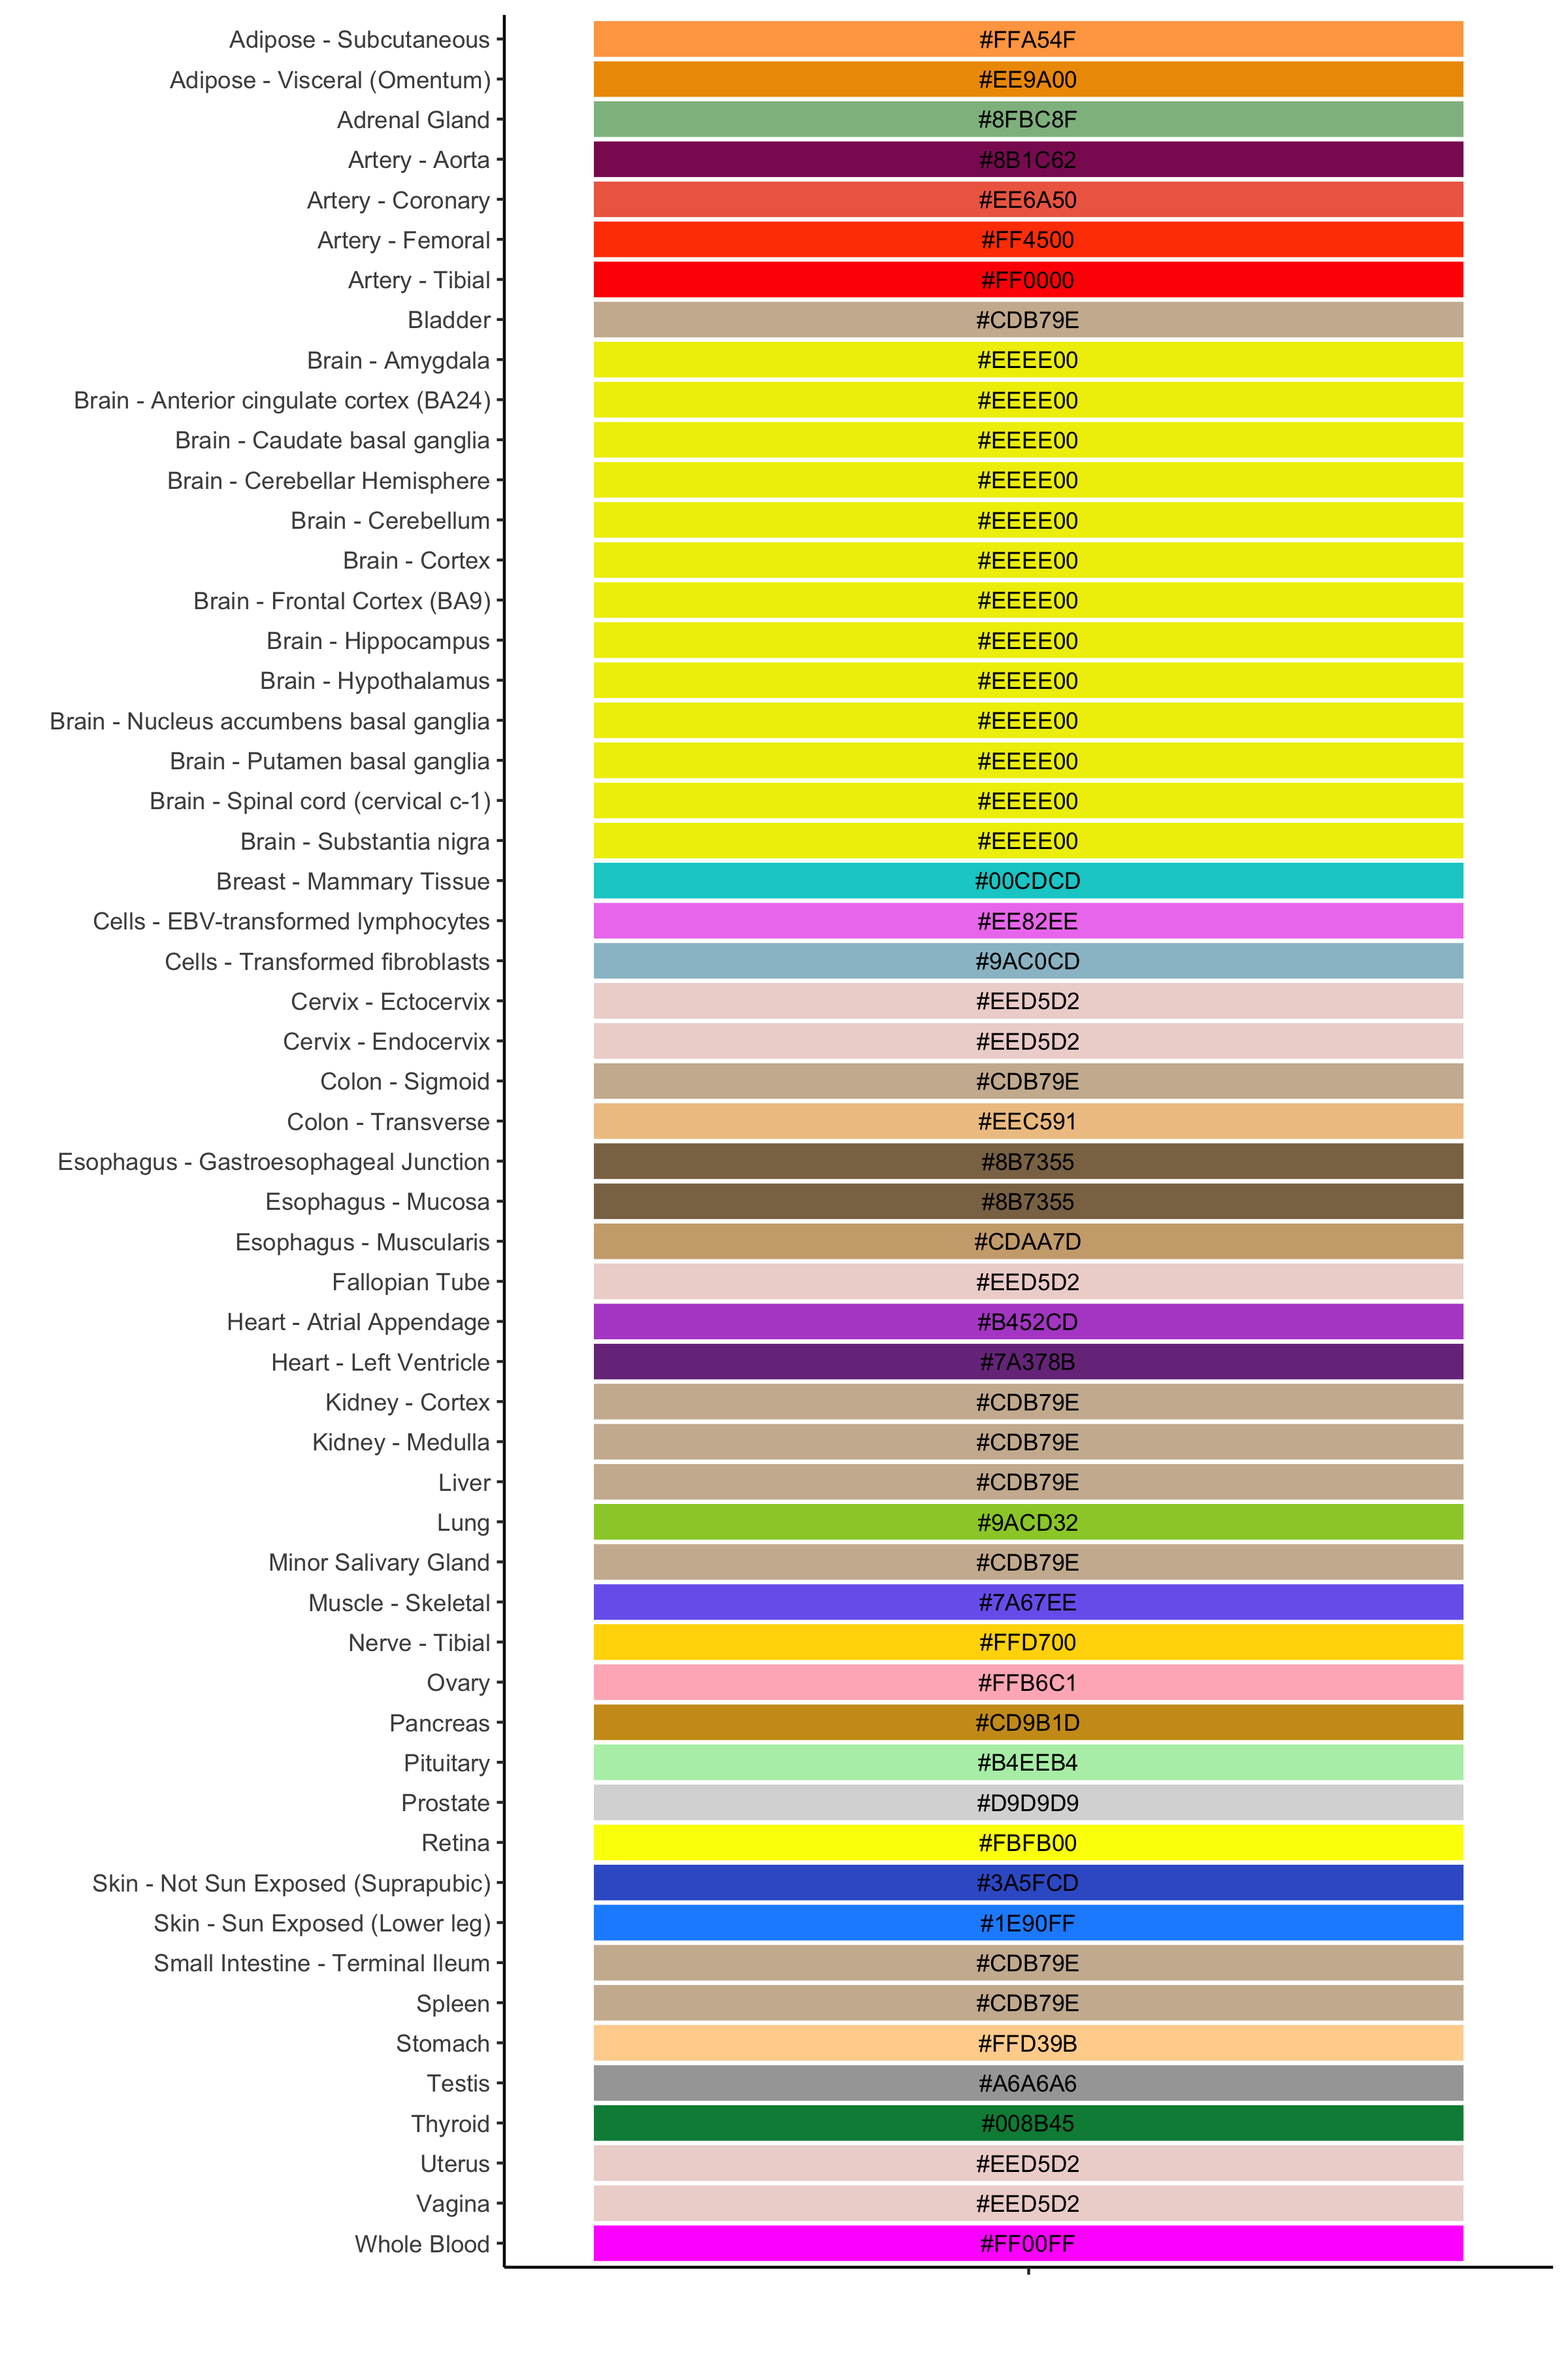
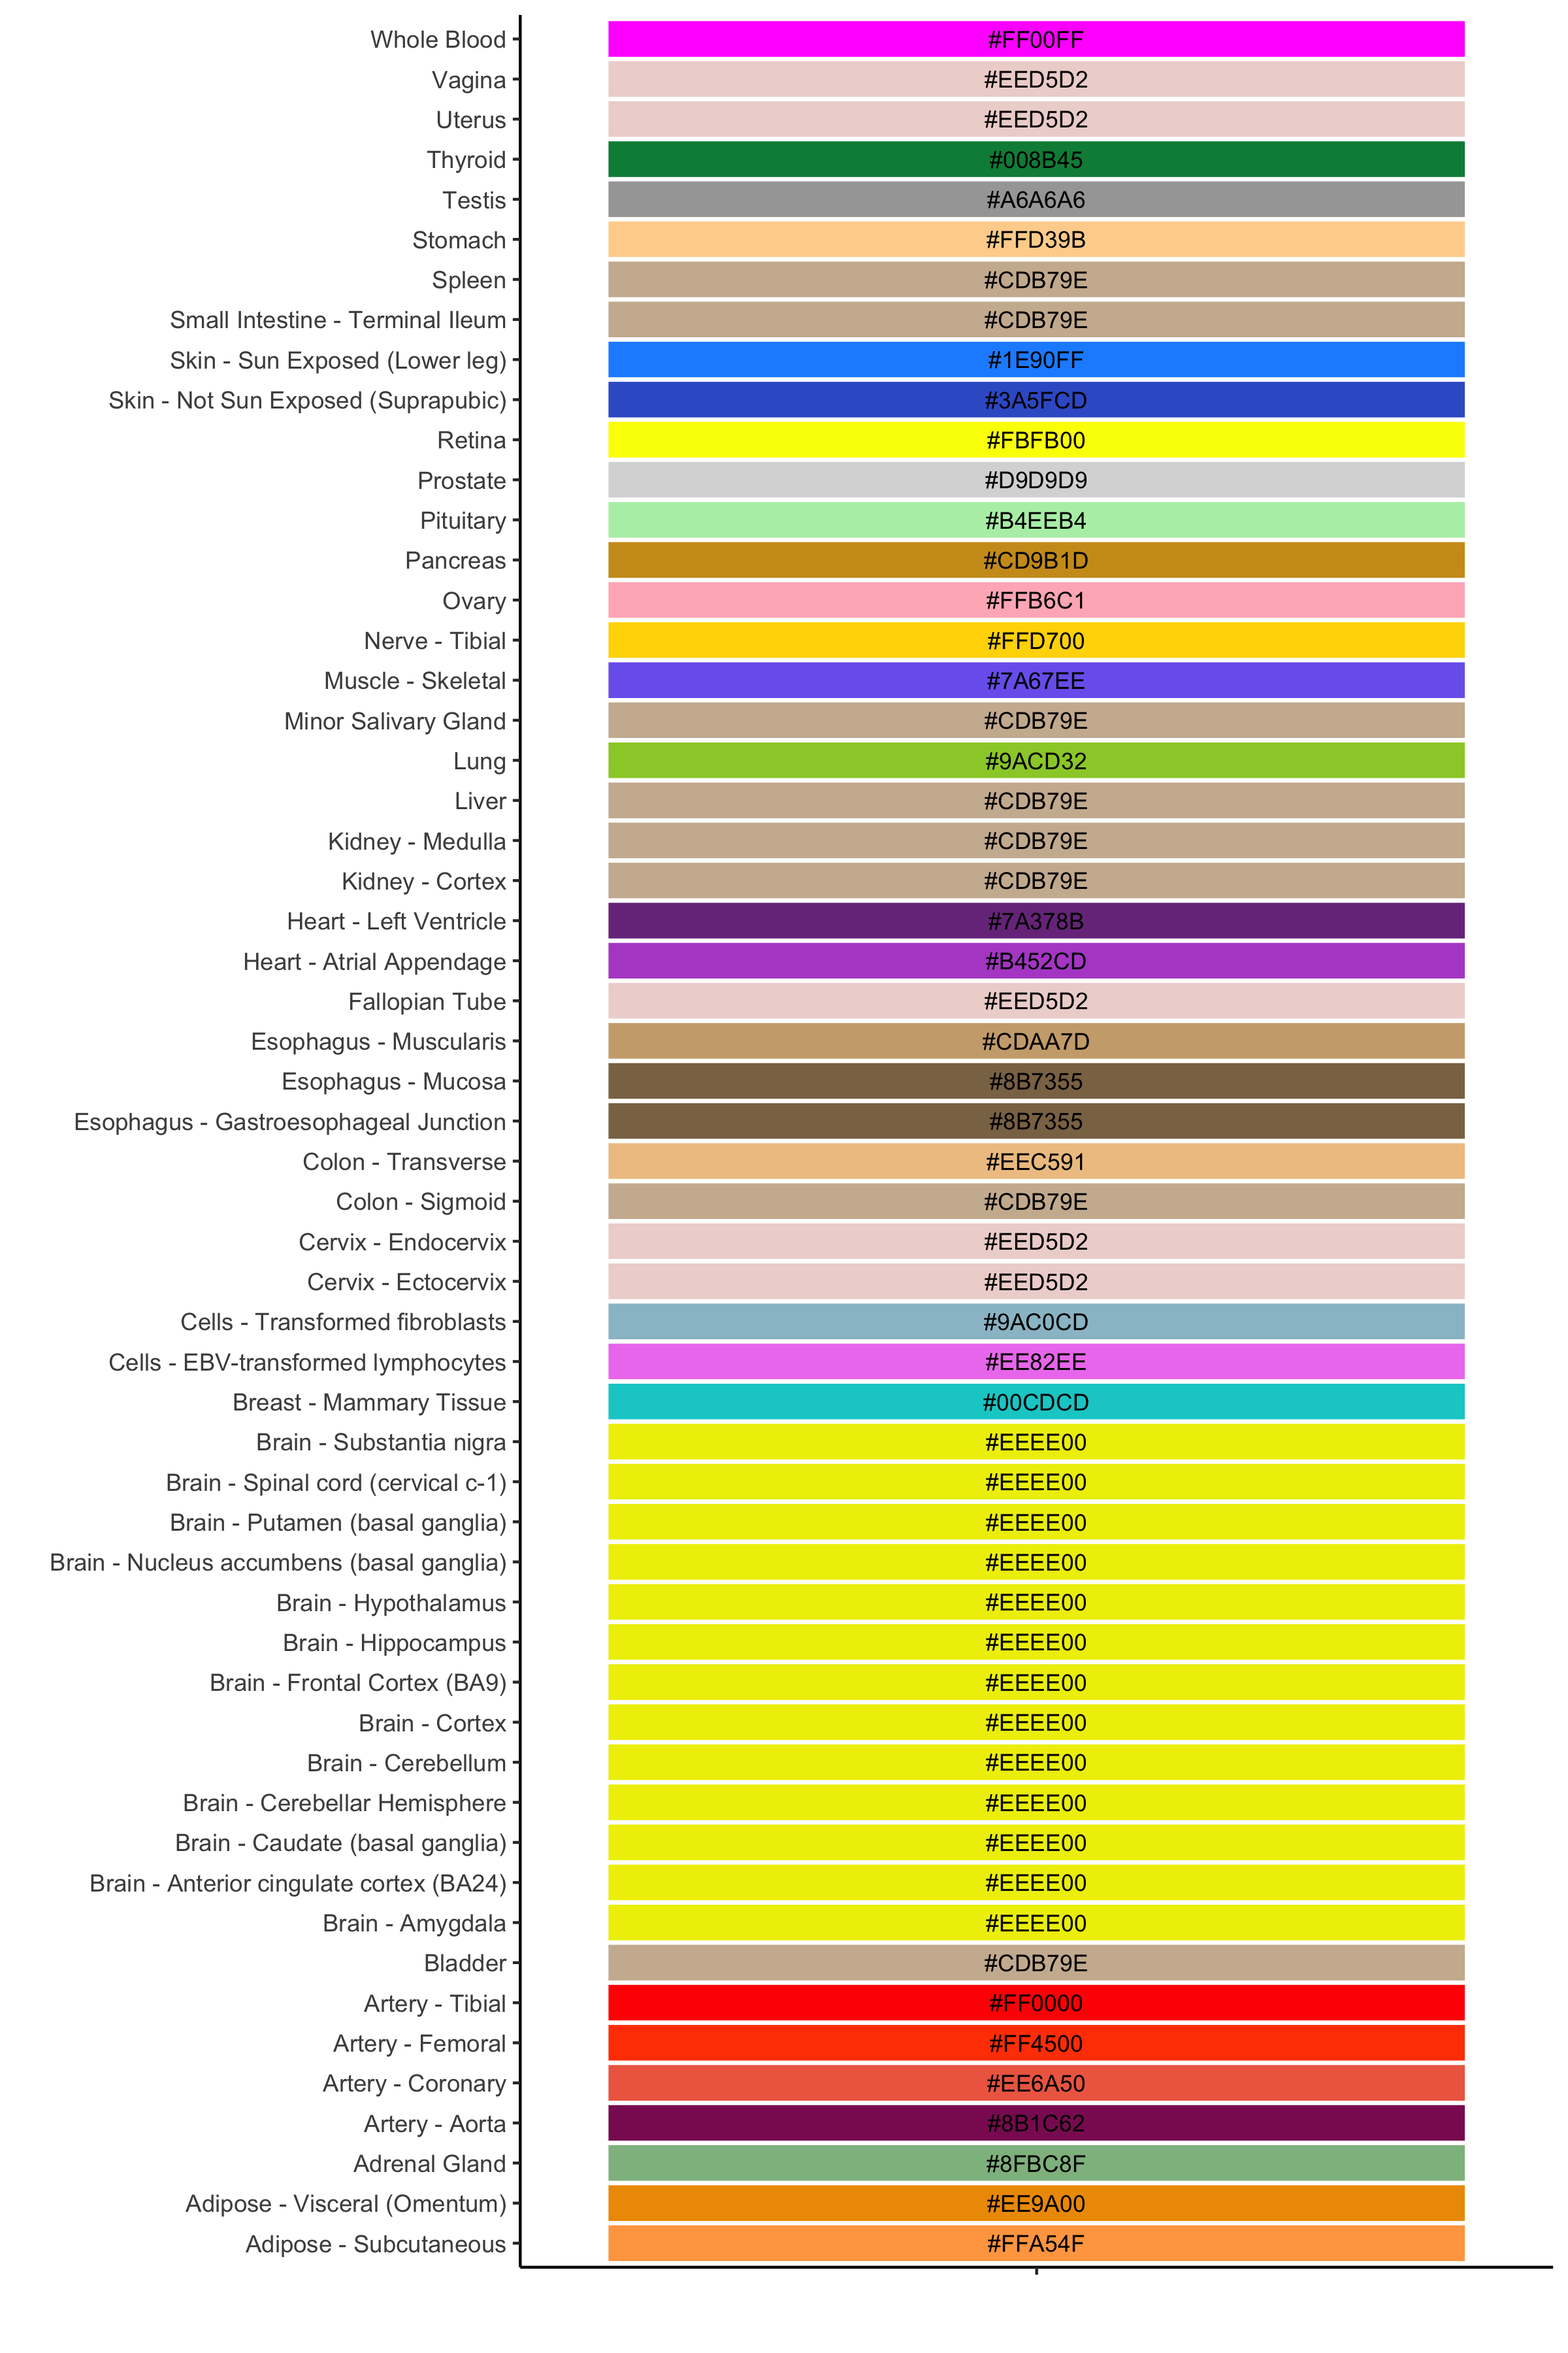
update4

diff --git a/README.md b/README.md
@@ -31,63 +31,63 @@ gtx_tissue_col <- read_rds('gtex_tissue_col_hex.Rds')
 gtx_tissue_col %>% arrange(desc(tissue_paste)) %>% tidyExt::print_all()
 #> # A tibble: 56 × 7
 #>    tissue_paste                      tissu…¹ smts  smtd  tissu…² tissu…³ tissu…⁴
-#>    <fct>                             <fct>   <fct> <fct> <fct>   <fct>   <fct>  
-#>  1 Adipose_Subcutaneous              Adipos… Adip… Subc… ADPSBQ  #FFA54F 255165…
-#>  2 Adipose_Visceral_Omentum          Adipos… Adip… Visc… ADPVSC  #EE9A00 2381540
-#>  3 Adrenal_Gland                     Adrena… Adre… Adre… ADRNLG  #8FBC8F 143188…
-#>  4 Artery_Aorta                      Artery… Arte… Aorta ARTAORT #8B1C62 1392898
-#>  5 Artery_Coronary                   Artery… Arte… Coro… ARTCRN  #EE6A50 238106…
-#>  6 Artery_Femoral                    Artery… Arte… Femo… ARTFMR  #FF4500 255690 
-#>  7 Artery_Tibial                     Artery… Arte… Tibi… ARTTBL  #FF0000 25500  
-#>  8 Bladder                           Bladder Blad… Blad… BLDDER  #CDB79E 205183…
-#>  9 Brain_Amygdala                    Brain … Brain Amyg… BRNAMY  #EEEE00 2382380
-#> 10 Brain_Anterior_cingulate_cortex_… Brain … Brain Ante… BRNACC  #EEEE00 2382380
-#> 11 Brain_Caudate_basal_ganglia       Brain … Brain Caud… BRNCDT  #EEEE00 2382380
-#> 12 Brain_Cerebellar_Hemisphere       Brain … Brain Cere… BRNCHB  #EEEE00 2382380
-#> 13 Brain_Cerebellum                  Brain … Brain Cere… BRNCHA  #EEEE00 2382380
-#> 14 Brain_Cortex                      Brain … Brain Cort… BRNCTXA #EEEE00 2382380
-#> 15 Brain_Frontal_Cortex_BA9          Brain … Brain Fron… BRNCTXB #EEEE00 2382380
-#> 16 Brain_Hippocampus                 Brain … Brain Hipp… BRNHPP  #EEEE00 2382380
-#> 17 Brain_Hypothalamus                Brain … Brain Hypo… BRNHPT  #EEEE00 2382380
-#> 18 Brain_Nucleus_accumbens_basal_ga… Brain … Brain Nucl… BRNNCC  #EEEE00 2382380
-#> 19 Brain_Putamen_basal_ganglia       Brain … Brain Puta… BRNPTM  #EEEE00 2382380
-#> 20 Brain_Spinal_cord_cervical_c-1)   Brain … Brain Spin… BRNSPC  #EEEE00 2382380
-#> 21 Brain_Substantia_nigra            Brain … Brain Subs… BRNSNG  #EEEE00 2382380
-#> 22 Breast_Mammary_Tissue             Breast… Brea… Mamm… BREAST  #00CDCD 0205205
-#> 23 Cells_EBV-transformed_lymphocytes Cells … Cells EBV   LCL     #EE82EE 238130…
-#> 24 Cells_Transformed_fibroblasts     Cells … Cells Tran… FIBRBLS #9AC0CD 154192…
-#> 25 Cervix_Ectocervix                 Cervix… Cerv… Ecto… CVXECT  #EED5D2 238213…
-#> 26 Cervix_Endocervix                 Cervix… Cerv… Endo… CVSEND  #EED5D2 238213…
-#> 27 Colon_Sigmoid                     Colon … Colon Sigm… CLNSGM  #CDB79E 205183…
-#> 28 Colon_Transverse                  Colon … Colon Tran… CLNTRN  #EEC591 238197…
-#> 29 Esophagus_Gastroesophageal_Junct… Esopha… Esop… Gast… ESPGEJ  #8B7355 139115…
-#> 30 Esophagus_Mucosa                  Esopha… Esop… Muco… ESPMCS  #8B7355 139115…
-#> 31 Esophagus_Muscularis              Esopha… Esop… Musc… ESPMSL  #CDAA7D 205170…
-#> 32 Fallopian_Tube                    Fallop… Fall… Fall… FLLPNT  #EED5D2 238213…
-#> 33 Heart_Atrial_Appendage            Heart … Heart Atri… HRTAA   #B452CD 180822…
-#> 34 Heart_Left_Ventricle              Heart … Heart Left… HRTLV   #7A378B 122551…
-#> 35 Kidney_Cortex                     Kidney… Kidn… Cort… KDNCTX  #CDB79E 205183…
-#> 36 Kidney_Medulla                    Kidney… Kidn… Medu… KDNMDL  #CDB79E 205183…
-#> 37 Liver                             Liver   Liver Liver LIVER   #CDB79E 205183…
-#> 38 Lung                              Lung    Lung  Lung  LUNG    #9ACD32 154205…
-#> 39 Minor_Salivary_Gland              Minor … Mino… Mino… SLVRYG  #CDB79E 205183…
-#> 40 Muscle_Skeletal                   Muscle… Musc… Skel… MSCLSK  #7A67EE 122103…
-#> 41 Nerve_Tibial                      Nerve … Nerve Tibi… NERVET  #FFD700 2552150
-#> 42 Ovary                             Ovary   Ovary Ovary OVARY   #FFB6C1 255182…
-#> 43 Pancreas                          Pancre… Panc… Panc… PNCREAS #CD9B1D 205155…
-#> 44 Pituitary                         Pituit… Pitu… Pitu… PTTARY  #B4EEB4 180238…
-#> 45 Prostate                          Prosta… Pros… Pros… PRSTTE  #D9D9D9 217217…
-#> 46 Retina                            Retina  Reti… Reti… RETINA  #FBFB00 2512510
-#> 47 Skin_Not_Sun_Exposed_Suprapubic   Skin -… Skin  Not … SKINNS  #3A5FCD 5895205
-#> 48 Skin_Sun_Exposed_Lower_leg        Skin -… Skin  Sun … SKINS   #1E90FF 301442…
-#> 49 Small_Intestine_Terminal_Ileum    Small … Smal… Term… SNTTRM  #CDB79E 205183…
-#> 50 Spleen                            Spleen  Sple… Sple… SPLEEN  #CDB79E 205183…
-#> 51 Stomach                           Stomach Stom… Stom… STMACH  #FFD39B 255211…
-#> 52 Testis                            Testis  Test… Test… TESTIS  #A6A6A6 166166…
-#> 53 Thyroid                           Thyroid Thyr… Thyr… THYROID #008B45 013969 
-#> 54 Uterus                            Uterus  Uter… Uter… UTERUS  #EED5D2 238213…
-#> 55 Vagina                            Vagina  Vagi… Vagi… VAGINA  #EED5D2 238213…
-#> 56 Whole_Blood                       Whole … Whol… Whol… WHLBLD  #FF00FF 2550255
+#>    <chr>                             <chr>   <chr> <chr> <chr>   <chr>   <chr>  
+#>  1 Whole_Blood                       Whole … Whol… Whol… WHLBLD  #FF00FF 2550255
+#>  2 Vagina                            Vagina  Vagi… Vagi… VAGINA  #EED5D2 238213…
+#>  3 Uterus                            Uterus  Uter… Uter… UTERUS  #EED5D2 238213…
+#>  4 Thyroid                           Thyroid Thyr… Thyr… THYROID #008B45 013969 
+#>  5 Testis                            Testis  Test… Test… TESTIS  #A6A6A6 166166…
+#>  6 Stomach                           Stomach Stom… Stom… STMACH  #FFD39B 255211…
+#>  7 Spleen                            Spleen  Sple… Sple… SPLEEN  #CDB79E 205183…
+#>  8 Small_Intestine_Terminal_Ileum    Small … Smal… Term… SNTTRM  #CDB79E 205183…
+#>  9 Skin_Sun_Exposed_Lower_leg        Skin -… Skin  Sun … SKINS   #1E90FF 301442…
+#> 10 Skin_Not_Sun_Exposed_Suprapubic   Skin -… Skin  Not … SKINNS  #3A5FCD 5895205
+#> 11 Retina                            Retina  Reti… Reti… RETINA  #FBFB00 2512510
+#> 12 Prostate                          Prosta… Pros… Pros… PRSTTE  #D9D9D9 217217…
+#> 13 Pituitary                         Pituit… Pitu… Pitu… PTTARY  #B4EEB4 180238…
+#> 14 Pancreas                          Pancre… Panc… Panc… PNCREAS #CD9B1D 205155…
+#> 15 Ovary                             Ovary   Ovary Ovary OVARY   #FFB6C1 255182…
+#> 16 Nerve_Tibial                      Nerve … Nerve Tibi… NERVET  #FFD700 2552150
+#> 17 Muscle_Skeletal                   Muscle… Musc… Skel… MSCLSK  #7A67EE 122103…
+#> 18 Minor_Salivary_Gland              Minor … Mino… Mino… SLVRYG  #CDB79E 205183…
+#> 19 Lung                              Lung    Lung  Lung  LUNG    #9ACD32 154205…
+#> 20 Liver                             Liver   Liver Liver LIVER   #CDB79E 205183…
+#> 21 Kidney_Medulla                    Kidney… Kidn… Medu… KDNMDL  #CDB79E 205183…
+#> 22 Kidney_Cortex                     Kidney… Kidn… Cort… KDNCTX  #CDB79E 205183…
+#> 23 Heart_Left_Ventricle              Heart … Heart Left… HRTLV   #7A378B 122551…
+#> 24 Heart_Atrial_Appendage            Heart … Heart Atri… HRTAA   #B452CD 180822…
+#> 25 Fallopian_Tube                    Fallop… Fall… Fall… FLLPNT  #EED5D2 238213…
+#> 26 Esophagus_Muscularis              Esopha… Esop… Musc… ESPMSL  #CDAA7D 205170…
+#> 27 Esophagus_Mucosa                  Esopha… Esop… Muco… ESPMCS  #8B7355 139115…
+#> 28 Esophagus_Gastroesophageal_Junct… Esopha… Esop… Gast… ESPGEJ  #8B7355 139115…
+#> 29 Colon_Transverse                  Colon … Colon Tran… CLNTRN  #EEC591 238197…
+#> 30 Colon_Sigmoid                     Colon … Colon Sigm… CLNSGM  #CDB79E 205183…
+#> 31 Cervix_Endocervix                 Cervix… Cerv… Endo… CVSEND  #EED5D2 238213…
+#> 32 Cervix_Ectocervix                 Cervix… Cerv… Ecto… CVXECT  #EED5D2 238213…
+#> 33 Cells_Transformed_fibroblasts     Cells … Cells Tran… FIBRBLS #9AC0CD 154192…
+#> 34 Cells_EBV_transformed_lymphocytes Cells … Cells EBV   LCL     #EE82EE 238130…
+#> 35 Breast_Mammary_Tissue             Breast… Brea… Mamm… BREAST  #00CDCD 0205205
+#> 36 Brain_Substantia_nigra            Brain … Brain Subs… BRNSNG  #EEEE00 2382380
+#> 37 Brain_Spinal_cord_cervical_c_1    Brain … Brain Spin… BRNSPC  #EEEE00 2382380
+#> 38 Brain_Putamen_basal_ganglia       Brain … Brain Puta… BRNPTM  #EEEE00 2382380
+#> 39 Brain_Nucleus_accumbens_basal_ga… Brain … Brain Nucl… BRNNCC  #EEEE00 2382380
+#> 40 Brain_Hypothalamus                Brain … Brain Hypo… BRNHPT  #EEEE00 2382380
+#> 41 Brain_Hippocampus                 Brain … Brain Hipp… BRNHPP  #EEEE00 2382380
+#> 42 Brain_Frontal_Cortex_BA9          Brain … Brain Fron… BRNCTXB #EEEE00 2382380
+#> 43 Brain_Cortex                      Brain … Brain Cort… BRNCTXA #EEEE00 2382380
+#> 44 Brain_Cerebellum                  Brain … Brain Cere… BRNCHA  #EEEE00 2382380
+#> 45 Brain_Cerebellar_Hemisphere       Brain … Brain Cere… BRNCHB  #EEEE00 2382380
+#> 46 Brain_Caudate_basal_ganglia       Brain … Brain Caud… BRNCDT  #EEEE00 2382380
+#> 47 Brain_Anterior_cingulate_cortex_… Brain … Brain Ante… BRNACC  #EEEE00 2382380
+#> 48 Brain_Amygdala                    Brain … Brain Amyg… BRNAMY  #EEEE00 2382380
+#> 49 Bladder                           Bladder Blad… Blad… BLDDER  #CDB79E 205183…
+#> 50 Artery_Tibial                     Artery… Arte… Tibi… ARTTBL  #FF0000 25500  
+#> 51 Artery_Femoral                    Artery… Arte… Femo… ARTFMR  #FF4500 255690 
+#> 52 Artery_Coronary                   Artery… Arte… Coro… ARTCRN  #EE6A50 238106…
+#> 53 Artery_Aorta                      Artery… Arte… Aorta ARTAORT #8B1C62 1392898
+#> 54 Adrenal_Gland                     Adrena… Adre… Adre… ADRNLG  #8FBC8F 143188…
+#> 55 Adipose_Visceral_Omentum          Adipos… Adip… Visc… ADPVSC  #EE9A00 2381540
+#> 56 Adipose_Subcutaneous              Adipos… Adip… Subc… ADPSBQ  #FFA54F 255165…
 #> # … with abbreviated variable names ¹tissue_hr, ²tissue_abbrv,
 #> #   ³tissue_color_hex, ⁴tissue_color_rgb
 ```
